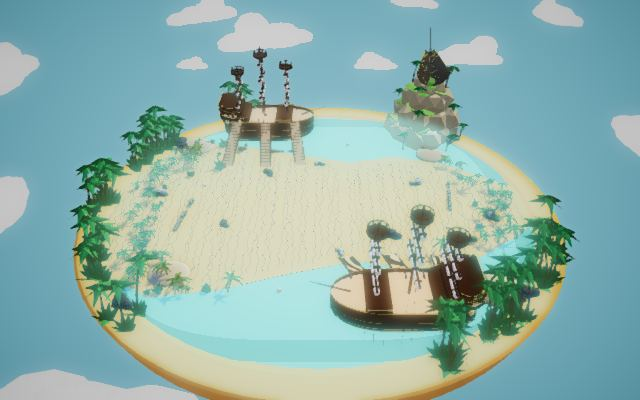
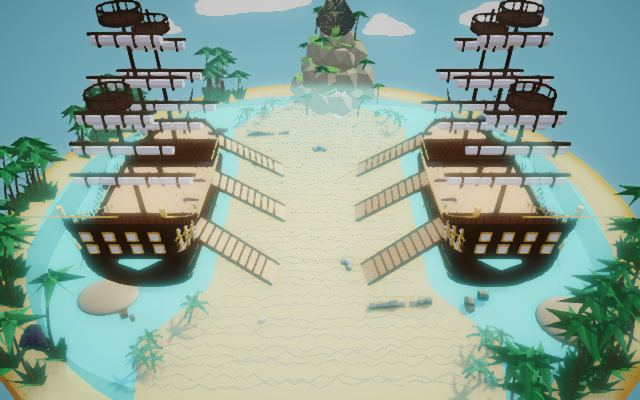
loop(602): solo map.pirate 3/3 gaps approved, map.pirate done

diff --git a/loop/LEDGER.md b/loop/LEDGER.md
@@ -3,6 +3,9 @@
 Rows: `file:identifier | value | last iter | verdict | earlier values`. P: no approved reversal within 20 iterations; two failed polish attempts spend a row. S/R replace mechanisms. The unit phase's ledger is `loop/archive/v4/LEDGER.md`.
 
 ## Structural attempts (iter | sha | item.criterion | verdict)
+602 | [R] 92afd9c8 | map.pirate.b1 | approve,struck1; critic added b2 (base palms on the turned strip)
+602 | 264c9d94,36a587e7 | map.pirate.a1 | approve,struck1; CONFIRM a PASS
+602 | c3b103ee | map.pirate.b2 | approve,struck2; CONFIRM b PASS -> D
 601 | [R] e0ec78a8 | map.pirate.b1 | reject,reverted d62511b6; R attempt1
 601 | 632a9f8c | map.pirate.a1 | approve,no strike
 601 | bba97442 | map.spooky_2.a4 | approve,struck4
@@ -35,18 +38,11 @@ Rows: `file:identifier | value | last iter | verdict | earlier values`. P: no ap
 597 | [R] 5e04109e | map.dynasty.a | approve, struck a3, a6 (plateau cleared)
 597 | 89b4f29e (+4818fb5b); 6bbd3b7d, 10bafbf2, cfe386c3 | map.fantasy_evil.a6; fantasy_good.a4, a3, b2 | approve all; struck a4, a3; a6 rock-mass and b2 ledge clauses cleared
 597 | 426bae72; 275c58c7 (+a137190f), e141277b; 2a5b6349, 0ff32508 | introduction.army.b1; longships.b1, b2; ice_archers.b1, b2 | approve all; struck army b2 b3, longships all (D), ice b1
-596 | f4eef72d (+990ecde8); [P] da34040c | map.fantasy_evil.a5; a6 | approve, a5 statue clause; [P] reject, reverted ce1a3756
-596 | ca380e64, ffb7e7ad (+8e8d3c20) | map.pirate.b2, a3 | approve, struck b2 (b PASS), a3
-596 | 24225dd9 (+7e3e49bc), 703a2a26 | map.spooky_2.b4, a3 | approve; b4 no strike (loop corners), struck a3
-596 | 2fb7605e, 534e1920 | map.dynasty.a5, a4 | approve, no strike (clauses cleared); a plateau
-596 | 65479838, 788ad169 | map.fantasy_good.b1, a6 | approve, struck both
 
 ## Done maps (rows compacted; the maps are D and never tuned again)
-tribal_1, tribal_2, tribal_sandbox, farmer_1, farmer_2, farmer_snow, medieval_1, medieval_2, viking, viking_sandbox, ancient_1, ancient_sandbox, legacy (576-584), wild_west, ancient_2, renaissance, spooky_1 (565-587), simulation, hill, bridge, corridor (587-591), low_ground, defend_the_castle (588-592), high_ground (589-599): every row approved and CONFIRMed; values in their builders' spec comments and git log `loop(5xx)`.
+tribal_1, tribal_2, tribal_sandbox, farmer_1, farmer_2, farmer_snow, medieval_1, medieval_2, viking, viking_sandbox, ancient_1, ancient_sandbox, legacy (576-584), wild_west, ancient_2, renaissance, spooky_1 (565-587), simulation, hill, bridge, corridor (587-591), low_ground, defend_the_castle (588-592), high_ground (589-599), pirate (576-602): every row approved and CONFIRMed; values in their builders' spec comments and git log `loop(5xx)`.
 
 ## Tuned values
-web/src/map/tabs/pirate.ts:shoreU/stationU | uniform28m hull restored | 601 | reject e0ec78a8 [R],revertedd62511b6 | attempted fixed18m middle/3.4xouter pitch,52m
-web/src/map/tabs/pirate.ts:sternGallery | rounded .8..1 beam,.9m rake,rising poop+.85m,quarter balconies | 601 | approve632a9f8c | .68..1 beam,.35m rake,flat lids; previously full-beam boxes
 web/src/map/tabs/spooky_2.ts:pumpkinShrine | ten lobes,main7.2m y6; arch13m/forks,15candles | 601 | approve bba97442 | single4.6m sphere y5,3trees
 web/src/map/tabs/fantasy_good.ts:viaductUnderside front | z-46.06 crown-3.2/spring-5.9/foot-14.1,5.4m openings/~7m pitch,6m returns | 601 | approve9e419281 | z-40.06 crown-1.6/spring-4.3/foot-12.5 masked by ledge
 web/src/map/tabs/fantasy_evil.ts:greenRim hosts | inherited domes replaced3faceted hosts each,8rim+4..6green mushrooms/host,caps.55..1.2/stems.4..1m | 601 | approvee40ca4f6 | magenta domes,6rim/caps.7..1.5
@@ -55,8 +51,6 @@ web/src/campaign/stagePresentation.ts:tiniestSummit | stage-only18x16m hill(20,-
 web/src/campaign/stagePresentation.ts:rider | head xz,head/crest maxY+.08,seated joints,restore before sim | 601 | approvea744ccde,c0d6c20a,799d316d | torso-local anchors hidden;flat Halfling
 web/src/campaign/stagePresentation.ts:wheelbarrowArchCrown; stages/adventure.ts:wheelbarrow | cap(1.2,7.15,10)8x.5x3.6 top7.4,cart+crew lift;actor(2.6,10) | 601 | approve5f92ad8a | absent cap/lift;actor(29,0)
 loop/scripts/capture-world.mjs:fantasyEvil poses, pirate army | island targety16 radius230, top targety12 radius160; Pirate stage army targety8.2 | 600 | evidence685f65a9,ce687e96 validated | Evil island targety8 radius200, top default; Pirate army targety1
-web/src/map/tabs/pirate.ts:galleon shell, nests | beam12m hull8m, 3gold strakes, open4.2m nest floors with4m hoops/posts | 600 | approve f99eb4fd [R], a1 clauses cleared, no strike | beam8 hull4.4, 1gold strake, closed1.8m nests
-web/src/map/tabs/pirate.ts:shore palms, summitWreck | 15irregular clumps of3..6 palms8..16m, pointed fronds/rosettes; open9m wrecked bow, ribs, mast and grass on summit | 600 | approve f99eb4fd [R], struck a2,a3 | 9clumps of2..4 palms4.5..7.5m; summit bell
 web/src/map/tabs/fantasy_good.ts:openArcade | 1.6m rim beam; real5.4m openings/~7m pitch, 1.1x1.3m piers to-12.5, stone arch tubes r.65; basalt12..27m | 600 | approve4834759a, no strike | 12m solid rim with dark arch plates; basalt3..16m
 web/src/map/tabs/fantasy_good.ts:gateFacades | lancets10..25.5m, 18mosaic panes/window, pointed gold frame, triple peaked bands31.7..36m on both faces | 600 | approve79aae0c6, struck a2 | rectangular yellow panes with grid and tiny diagonal tips; gate size/spires unchanged
 web/src/map/tabs/fantasy_good.ts:frontFallSpill | 2m fall to ledge, spill toz-46.35, 22m opaque drop +6m alpha fade | 600 | approve a44979d1 [P], no strike; spill visible, fade uncredited | continuous30m drop at deck rim through ledge
@@ -74,10 +68,6 @@ web/src/map/tabs/viking.ts:innerIce zones | append x+-(1..27), z+-20; original o
 web/src/map/tabs/fantasy_evil.ts:STATUE | (18,15) scale 1.05 yaw 1.27 (faces the ground camera), stone self .75, no shadows received; collider cylinder r 3.9 | 596 | approve, a5 statue clause | 594: (8,26) 1x facing -z, self .2, box collider
 web/src/map/tabs/fantasy_evil.ts:rockMass | (.09,.12,.14) self (.03,.04,.045); rim links 1.1 m x .28. 596 [P] (.2,.26,.32)/(.07,.09,.11), links 1.6 m: rejected (mass under the slab, unseen) | 596 | reject (attempt 1) | -
 web/src/map/tabs/fantasy_evil.ts:STAIRS/shrine/chasms/voidSky | flights |x|8..16 z-16..-6; shrine r6.2(0,1),altar(0,12); chasms4m acid(.15,.9,.2); void(.02,.012,.035); replaced floor/rim/monument in newer rows | 595 | approve590-595 | tree ring/maroon lawn/mauve sky
-web/src/map/tabs/pirate.ts:deck zone + deckHeight castles | team-1 zone x 2..32 z -41..-20 (appended); forecastle u 3..8 +1.4, stern tiers u -13.5..-5.5/-7.5/-9.3 +2.2/+4/+5.4; stage armies on the -z deck x 8..26 | 596 | approve, struck b2 | armies on sand x 29..41.4
-web/src/map/tabs/pirate.ts:beachRing | ring 63 x 57 half, 8 m wide, crown y .3 golden sand; side 7 m + belly to -21, (.66,.46,.22) self 1 (596.3b; .45 read chocolate); 9 palm clumps 2-4 palms 4.5-7.5 m | 596 | approve, struck a3 | bare sea disc edge
-web/src/map/tabs/pirate.ts:SHIPS, galleons, gangplanks, deckHeight, rails | +z ship x -17 bow 1, -z ship x 17 bow -1; hull loft u -13..15 (.24,.11,.04) self .14; planks 3.2 x 12.5 m fanned; deck y 3.6, rails split at mouths u -9,0,9; stern lofted galleries (599; see sternGallery) | 595 | approve (585-595) | 576 box hulls at x 0
-web/src/map/tabs/pirate.ts:hourglassBeach, goldenSand, sandIsland, bellMountain, tropicSky, openShore | 12 stations points (-61,3)/(61,2), waist 21 at x 9; sand (.82,.56,.2) self (.3,.18,.04), ripple Vs; sea ring 62 x 56 (.2,.8,.75); mountain (34,38) 19 m, bell 6 m; sky (.55,.84,.93); haze treeline hidden | 592 | approve (577-592) | base oval, lagoon
 web/src/map/tabs/spooky_2.ts:thornThickets | per side 16 lumps r 1.8-3.2 (.055,.06,.1) self .35 + 52 arching vines 3-7 m, rise 2-4.5 m, navy (.1,.11,.19) self .3; collider 3.5 x 7 kept | 596 | approve, struck a3 | 587: 30 upright vines 7-10 m
 web/src/map/tabs/spooky_2.ts:squareRingSpot, terraces, deadPropTrees, blackTrees, rockSkirt, channelBridges, gratedCourt, darkTorii, pumpkinShrine, nightSky | ring on power-8 rim; terraces |z| .8..6.4 h .7, 18.6..29.5 h 1.6; dead trees 6-9.5 m bark (.035,.035,.055); skirt 4 courses (.3,.34,.48); bridges x +-30 rise 3; ember court 15 m; torii (-40,33); shrine (14,38) 16 m mound; navy sky | 595 | approve (578-595) | base oval day map
 web/src/map/tabs/dynasty.ts:cherryGrove | ten rim trees, trunks9..13m d1.3, crowns r2.3..3.6; original ring colliders replaced | 599 | approve, struck a5 | 597: every4th base tree, trunk5.5..8m, crown r1.4..2.4; colours unchanged

diff --git a/loop/STATE.md b/loop/STATE.md
@@ -1,6 +1,6 @@
 # Loop state (v11: maps then stages; solo mode for stuck items; locked-list CONFIRM before done)
-Iteration: 601   Batch: maps_3+maps_4+stages_adventure   Consecutive empty: 0   Done: 33/99   Parked: 0
-Solo: map.pirate   Queue: map.dynasty, map.spooky_2, map.fantasy_evil, map.fantasy_good   Rounds: 0   Dry: 0
+Iteration: 602   Batch: maps_3+maps_4+stages_adventure   Consecutive empty: 0   Done: 34/99   Parked: 0
+Solo: map.dynasty   Queue: map.spooky_2, map.fantasy_evil, map.fantasy_good   Rounds: 0   Dry: 0
 Batches, in order: maps_1, maps_2, maps_3, maps_4, stages_introduction, stages_adventure, stages_challenge, stages_dynasty, stages_renaissance, stages_pirate, stages_spooky, stages_simulation, stages_wild_west, stages_legacy, stages_fantasy_good, stages_fantasy_evil
 <!-- Item template: # <id>; Status: open|done|parked Audited: N(AUDIT x2),N(CONFIRM: passed a; failed b) Done: N
 ## Verdicts: a FAIL (0 since N; list from AUDIT|CONFIRM N): 1. <blocker verbatim> s2. <element> in <shot> (struck N) / a PASS(N: struck n; CONFIRM N); b likewise; c PASS(N judge) / c FAIL(N judge): <reasons>
@@ -11,7 +11,7 @@ Marks per a b c: + pass,- fail,? unscored. Status q queued,o open,D done,p parke
 ## Scoreboard
 maps_1: tribal_1 +++ D | tribal_2 +++ D | tribal_sandbox +++ D | farmer_1 +++ D | farmer_2 +++ D | farmer_snow +++ D
 maps_2: medieval_1 +++ D | medieval_2 +++ D | ancient_1 +++ D | ancient_2 +++ D | ancient_sandbox +++ D | viking +++ D | viking_sandbox +++ D
-maps_3: dynasty -++ o | renaissance +++ D | pirate --+ o | spooky_1 +++ D | spooky_2 +-+ o | wild_west +++ D | legacy +++ D
+maps_3: dynasty -++ o | renaissance +++ D | pirate +++ D | spooky_1 +++ D | spooky_2 +-+ o | wild_west +++ D | legacy +++ D
 maps_4: fantasy_good --+ o | fantasy_evil --+ o | simulation +++ D | bridge +++ D | hill +++ D | corridor +++ D | defend_the_castle +++ D | high_ground +++ D | low_ground +++ D
 stages_introduction: clubs +++ D | army +++ D | hay_and_pitchforks +++ D | basic_formation +++ D | ice_archers_only_almost +++ D | longships +++ D
 stages_adventure: tree_tribe +-+ o | the_tiniest_attack +++ D | sneaky_tribe +-+ o | tree_mammoths +-+ o | final_destination_wheelbarrow +++ D | a_fierce_rider +++ D
@@ -26,52 +26,27 @@ stages_legacy: siege ??? q | a_tank ??? q | the_war ??? q | thor_s_battle ??? q
 stages_fantasy_good: colossal_spike ??? q | royal_archers ??? q | clash_of_warriors ??? q | chaotic_cavalry ??? q | vicious_terror ??? q | fortified_formation ??? q
 stages_fantasy_evil: encircling_tribe ??? q | raze_the_homestead ??? q | farmer_uprising_evil ??? q | storm_the_fortress ??? q | blasted_skirmish ??? q | dismantle_the_spears ??? q
 
-## Focus (iter601: 1 [R] +8 [S]; BASE91e9f830)
-Evidence f6ef3f95: raised Wheelbarrow army targety9/r32. Rider two visibility followups; final seat follows head/crest world bounds.
-- [R] map.pirate.b blocker1 (e0ec78a8) REJECT, reverted d62511b6; no strike
-- [S] map.pirate.a blocker1 (632a9f8c) APPROVE, no strike
-- [S] map.spooky_2.a blocker4 (bba97442) APPROVE, struck4; a PASS
-- [S] map.fantasy_good.a blocker1 (9e419281) APPROVE, struck1; CONFIRM faileda,b
-- [S] map.fantasy_evil.a blocker3 (e40ca4f6) APPROVE, struck3; CONFIRM faileda,b
-- [S] map.fantasy_evil.b blocker1 (12ddab5e) APPROVE, struck1; CONFIRM faileda,b
-- [S] adventure.the_tiniest_attack.b blocker1 (c283afb0) APPROVE, struck1; CONFIRM PASS -> D
-- [S] adventure.a_fierce_rider.b blocker2 (a744ccde,c0d6c20a,799d316d) APPROVE, struck2; CONFIRM PASS -> D
-- [S] adventure.final_destination_wheelbarrow.b blocker1 (5f92ad8a) APPROVE, struck1; CONFIRM PASS -> D
-- 8/9, 7 struck
+## Focus (iter602 solo map.pirate, 2 rounds: 1 [R] +2 [S]; BASE e2870814 + v11 rules 7d1dbd41)
+Evidence a499d822 (deck shot on the turned team-0 ship), 8a51d844 (ground/battle cam up the strip centre line, also stage battle shots).
+- r1 [R] map.pirate.b blocker1 (92afd9c8) APPROVE, struck1; critic added b2 (base palms left on the turned strip)
+- r1 [S] map.pirate.a blocker1 (264c9d94, 36a587e7) APPROVE, struck1; a PASS; CONFIRM a PASS
+- r2 [S] map.pirate.b blocker2 (c3b103ee) APPROVE, struck2; b PASS; CONFIRM b PASS -> D
+- 3/3, 3 struck
 
 ## Last verdicts (critic header lines verbatim)
-GAP: [R] map.pirate.b (e0ec78a8)
-VERDICT: REJECT
-CRITERION: map.pirate.b FAIL (previous: FAIL)
-GAP: [S] map.pirate.a (632a9f8c)
+GAP: [R] map.pirate (92afd9c8)
 VERDICT: APPROVE
-CRITERION: map.pirate.a FAIL (previous: FAIL)
-GAP: [S] map.spooky_2.a (bba97442)
+CRITERION: map.pirate.b FAIL   (previous: FAIL)
+GAP: [S] map.pirate (264c9d94, follow-up 36a587e7)
 VERDICT: APPROVE
-CRITERION: map.spooky_2.a PASS (previous: FAIL)
-GAP: [S] map.fantasy_good.a (9e419281)
+CRITERION: map.pirate.a PASS   (previous: FAIL)
+GAP: [S] map.pirate (c3b103ee)
 VERDICT: APPROVE
-CRITERION: map.fantasy_good.a PASS (previous: FAIL)
-GAP: [S] map.fantasy_evil.a (e40ca4f6)
-VERDICT: APPROVE
-CRITERION: map.fantasy_evil.a PASS (previous: FAIL)
-GAP: [S] map.fantasy_evil.b (12ddab5e)
-VERDICT: APPROVE
-CRITERION: map.fantasy_evil.b PASS (previous: FAIL)
-GAP: [S] adventure.the_tiniest_attack.b (c283afb0)
-VERDICT: APPROVE
-CRITERION: adventure.the_tiniest_attack.b PASS (previous: FAIL)
-GAP: [S] adventure.a_fierce_rider.b (a744ccde, c0d6c20a, 799d316d)
-VERDICT: APPROVE
-CRITERION: adventure.a_fierce_rider.b PASS (previous: FAIL)
-GAP: [S] adventure.final_destination_wheelbarrow.b (5f92ad8a)
-VERDICT: APPROVE
-CRITERION: adventure.final_destination_wheelbarrow.b PASS (previous: FAIL)
-REGRESSIONS: none. All 44 final PNGs were inspected. judge.json: map.pirate.c, map.spooky_2.c, map.fantasy_good.c, map.fantasy_evil.c PASS; a and c PASS for all nine captured stages (22/22 script criteria). summary.json has no console/page errors; its two --add notes only record recaptures. The absent full references for pirate.a_rival_captain and fantasy_good.vicious_terror were reviewed using their extant thumbs and cards.
+CRITERION: map.pirate.b PASS   (previous: FAIL)
+REGRESSIONS: none. judge.json: map.pirate.c and all three stages' a and c PASS (x_marks_the_spot, a_rival_captain, spooky.plunder; armies moved onto the +x deck). CONFIRM (locked list) passed a in r1, b in r2.
 
 ## Notes for next iteration (max5lines)
-- v11 (user, 2026-11-19): solo mode from 602, maps one at a time to D or Dry:6 park; adventure stages wait for the empty Queue. Locked list: pirate a/b, fantasy a/b, dynasty a lists are from CONFIRM (no glance); dynasty b, spooky_2 a not kept (glance only); spooky_2 b from AUDIT. Pirate b [R] in round 1.
-- 601: 44PNGs,22/22scriptPASS,zero page/console errors; post-revert Pirate+3stages recaptured PASS; tsc/build/budget and four changed-map thumbnails PASS. Reviews iter-601/critic.md,confirm.md; reviewed pre-revert pack iter-601/reviewed/.
-- Three Adventure stages confirmed D ->33/99; no batch checkpoint. Remaining Adventure: canopy tribe, cave tribe, canopy Mammoths (AUDIT600).
-- Pirate b R rejected/revertedd62511b6, attempt1; oldest plateau since599 takes next R. Rebuild shore+ships together. a1 attempt2, next starvation606. Early Pirate CONFIRM unused.
-- Good a/b second counted CONFIRM595/601 and Evil a/b599/601 ->plateau. New blocker lists in items; R specs need all respective CONFIRM lists. Good CONFIRM well-count wording sayssix, owning arrayfive: reconcile in spec.
+- 602 solo pirate D in 2 rounds (reviews iter-602/critic.md, critic-r2.md, confirm.md, confirm-r2.md); thumbnail refreshed. Next solo: map.dynasty (a FAIL a1 turf, a2 cobble loop, list from CONFIRM 588: no glance; b PASS not kept: glance allowed).
+- Dynasty has a waiting [P] fallout (shrub cheeks in stage armies) and stages dynasty.samurai, art_of_war, renaissance_vs_dynasty_3, wild_west.shogun_s_samurai to capture with it.
+- v11 (user, 2026-11-19): solo mode, maps one at a time to D or Dry:6 park; adventure stages wait for the empty Queue. Locked list: fantasy a/b lists from CONFIRM (no glance); spooky_2 a not kept (glance only), b from AUDIT.
+- Pirate CONFIRM notes (not blockers): mirror-symmetric ships, cylinder sails, straight strip, rubble rows on the strip.

diff --git a/loop/items/map.pirate.md b/loop/items/map.pirate.md
@@ -1,26 +1,20 @@
 # map.pirate
-Status: open   Audited: 576 (AUDIT x2), 592 (CONFIRM: failed a,b), 599 (CONFIRM: failed a,b)   Done: -
+Status: done   Audited: 576 (AUDIT x2), 592 (CONFIRM: failed a,b), 599 (CONFIRM: failed a,b), 602 (CONFIRM: passed a; passed b, round 2)   Done: 602
 ## Verdicts
-a FAIL (601: no strike; list from599): 1. Ships in output/loop/iter-599/map_pirate_island.png — TABS: large, deep, tiered hulls with elaborate raised sterns and broad crow's nests dominate both shores; ours read as shallow narrow boats with box cabins (ref: reference/maps/wiki/pirate.png).
-b FAIL (plateau; 0 since 599): 1. Ship-to-field proportions in output/loop/iter-599/map_pirate_top.png — TABS: each ship runs along most of its beach shore, closely framing the fighting ground; ours has short ships beside a disproportionately broad central sand field (ref: reference/maps/wiki/pirate.png).
-c PASS (601 judge)
+a PASS (602: struck 1; CONFIRM 602)
+b PASS (602: struck 1 [R], 2 [S]; CONFIRM 602 r2)
+c PASS (602 judge)
 ## Ranked gaps
-1. [R] b shore-and-ship footprint — blocker1: replace hourglassBeach and galleon layout together, ships framing most of both shores; preserve deck approaches/armies — ref: reference/maps/wiki/pirate.png — ours: map_pirate_top.png
-2. [S] a open stern terrace (2 attempts; starvation/new plateau only) — blocker1: upward-sweeping deck and integrated quarter galleries — ref: reference/maps/wiki/pirate.png — ours: map_pirate_island.png, map_pirate_deck.png
+(none)
 ## Attempts (iter | gap | criterion | verdict)
-601 | [R] layout e0ec78a8 | b1 | REJECT, reverted d62511b6 (R attempt1)
-601 | [S] curved galleries632a9f8c | a1 | APPROVE, no strike (attempt2)
-600 | [R] galleonsf99eb4fd | a | APPROVE, strucka2,a3; hull/nest clauses cleared; a plateau lifted
-599 | [S] galleries9b680d9d | a2 | APPROVE, strucka2; second failed CONFIRM -> plateau
-596 | deckca380e64; shoreffb7e7ad/8e8d3c20 | b2,a3 | APPROVE, struckboth
-595 | teamshipsb3ba566f | b1 | APPROVE, struckb1
-594 | transom29222f58 | a2 | REJECT,revertedb4a3cdd9
-593 | hullc6dfd275/0a50ce06 | a2 | APPROVE, strucka1/bow
-576-592 | mechanisms | a,b | old lists struck; CONFIRM592 faileda,b
+602 | [R] z-strip galleons 92afd9c8 (+evidence a499d822) | b1 | APPROVE, struck b1; critic added b2 (base palms on the turned strip)
+602 | [S] rising stern castle 264c9d94/36a587e7 | a1 | APPROVE, struck a1; CONFIRM a PASS
+602 | [S] open sand c3b103ee (+evidence 8a51d844 ground/battle pose) | b2 | APPROVE, struck b2; CONFIRM b PASS -> D
+601 | [R] layout e0ec78a8 | b1 | REJECT, reverted d62511b6
+576-601 | hull/galleons/shore/deck/stern | a,b | old lists struck; CONFIRM592/599 failed a,b
 ## Rejected (last 4)
 601 | [R] b1 e0ec78a8 | longer hulls leave broad empty shore; R clears no blocker; reverted
 594 | [S] a2 29222f58 | transom faced +-x, invisible; reverted
 ## Notes (max 3 lines)
-- Stages: pirate.x_marks_the_spot, a_rival_captain, spooky.plunder; -z deck armies/zones retained; post-revert a/c all PASS601.
-- b R waiting since599, one rejection. a1 next starvation606.
-- Early601 CONFIRM unused: not would-be-done. Reviewed pre-revert shots saved iter-601/reviewed/; root shots post-revert.
+- Done 602 (solo, 2 rounds). Ships: local frame baked by SHIP_S 1.5 at x +-29 keel along z; strip stations along z; zones per team: strip half then own deck.
+- Stage armies on +x deck (x 19..32); capture army target y 8.2 matches deck 8.4. CONFIRM notes for later: mirror-symmetric ships, cylinder sails, strip straight.

diff --git a/loop/LESSONS.md b/loop/LESSONS.md
@@ -17,7 +17,6 @@ Read at step 1; merge near cap. Unit-phase lessons: loop/archive/v4/LESSONS.md.
 - A pit below y 0 is lidded by the base slab (islandUnder/islandShelf, y -0.02): hide them (592).
 
 ## Capture and probes
-- Serialize agents' git staging and commit pairs: their shared index can combine separate gaps into one commit.
 - Regression-only replaces summary.json: back up world evidence and keep its smoke summary separately (599).
 - capture-world: mulberry32 0x4d4f5642 reseeded each resetBattle, time via advanceTime, setupScale8; re-add body.capture-mode before shots (loads drop it).
 - Never capture with a test --iter (pruneOld): use look/. Near-black set pieces vanish in black tree rings (587).
@@ -51,7 +50,8 @@ Read at step 1; merge near cap. Unit-phase lessons: loop/archive/v4/LESSONS.md.
 - capture-world builds a production snapshot first: source edits after its "starting vite preview" line do not reach that run (586).
 - Night snow under blue light: warm the diffuse, carry the pale tone in self-light, field out of the glow (farmer_snow 573).
 - Turf caps on cliff columns flicker if coplanar with cliff or meadow: cap slightly below the meadow, shaft top inside the cap (567).
-- Run captures unsandboxed. CONFIRMs fail on unlisted set pieces (585-596). Island cam sky band: z~200, y -25..35.
+- Run captures unsandboxed. Island cam sky band: z~200, y -25..35.
+- Moving a set piece can put a fixed pose inside it (pirate 602: ground cam x -30 in a hull): view every shot after. Turn/scale one: build local, bakeTransformIntoVertices.
 - Sim-family maps (588): tabs/simKit.ts (grid blocks, bareField, voidAround). setPlacementGuidesVisible re-enables every mesh named "border": rename a base one to hide it. terrainMesh skirts carry both windings: give them a backFaceCulling material.
 - Grass: thin-instance fans of six blades, normals up (583); flattened IcoSpheres read as paving from low cameras, leaf cards as beige flags (571).
 - MergeMeshes: null past 65536 verts unless (parts,true,true); throws on mixed attributes (VertexData needs uvs); a throwing build leaks into later maps (593).
